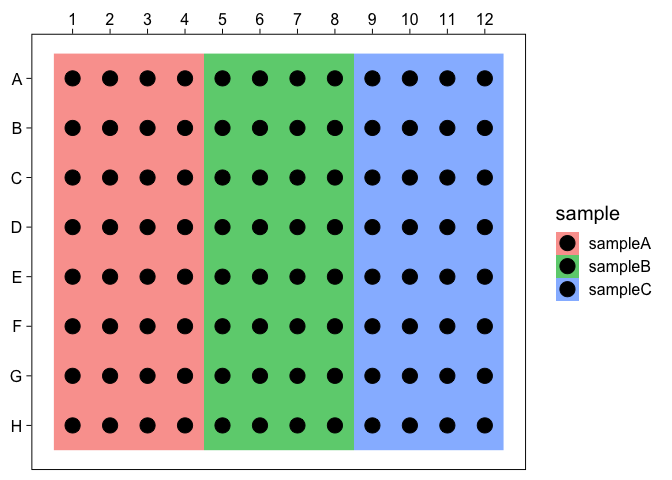
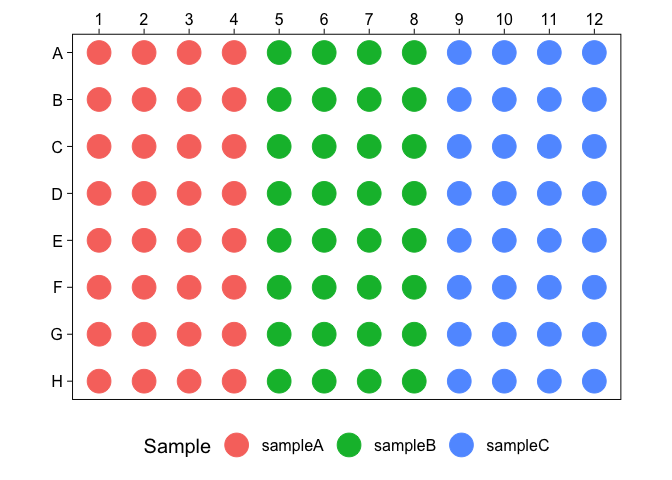
Update README with plate map

diff --git a/README.md b/README.md
@@ -142,50 +142,40 @@ make_plate(
     ## 8    C2    2    C sampleC  250
     ## 9    C3    3    C sampleC  125
 
-<!-- ### `plate_map()` -->
-<!-- Cretes a visual representation of a plate's contents. -->
-<!-- ```{r} -->
-<!-- df1 <- make_plate( -->
-<!--   rows = 1:8,  -->
-<!--   cols = 1:12,  -->
-<!--   sample = rep(c("sampleA", "sampleB", "sampleC"), each = 4), -->
-<!--   conc = 500,  -->
-<!--   dil = 0.5,  -->
-<!--   direction = "vertical" -->
-<!-- ) -->
-<!-- library(ggplot2) -->
-<!-- letter_numbers <- match(unique(df1$rows), LETTERS) -->
-<!-- df1$letter_numbers <- match(df1$rows, LETTERS) -->
-<!-- ggplot(df1, aes( -->
-<!--   x = cols,  -->
-<!--   y = letter_numbers, -->
-<!--   # shape = sample, -->
-<!--   fill = sample -->
-<!-- )) +  -->
-<!--   geom_raster(aes( -->
-<!--     xmin = min(cols), -->
-<!--     xmax = max(cols), -->
-<!--     ymin = min(letter_numbers), -->
-<!--     ymax = max(letter_numbers) -->
-<!--   ), alpha = 0.8) + -->
-<!--   geom_point(size = 8) + -->
-<!--   geom_line(aes( -->
-<!--     y = letter_numbers, -->
-<!--     x = cols, -->
-<!--     group = rows -->
-<!--   ), alpha = 0.5) +  -->
-<!--   geom_line(aes( -->
-<!--     y = letter_numbers,  -->
-<!--     x = cols,  -->
-<!--     group = cols -->
-<!--   ), alpha = 0.5) + -->
-<!--   scale_x_continuous(breaks = 1:12, position = "top") + -->
-<!--   scale_alpha(position = "bottom") + -->
-<!--   scale_y_reverse(breaks = letter_numbers, labels = LETTERS[letter_numbers]) + -->
-<!--   theme_linedraw(base_size = 15) + -->
-<!--   theme(panel.grid = element_blank(),  -->
-<!--         axis.title = element_blank(),  -->
-<!--         aspect.ratio = 8/12) + -->
-<!--   labs(alpha = "") + -->
-<!--   scale_colour_viridis_c(option = "B")  -->
-<!-- ``` -->
+### `plate_map()`
+
+Cretes a visual representation of a plate’s contents.
+
+``` r
+df1 <- make_plate(
+  rows = 1:8,
+  cols = 1:12,
+  sample = rep(c("sampleA", "sampleB", "sampleC"), each = 4),
+  conc = 500,
+  dil = 0.5,
+  direction = "vertical"
+)
+
+library(ggplot2)
+
+ggplot(df1, aes(
+  x = cols,
+  y = match(rows, LETTERS),
+  colour = sample
+)) +
+  geom_point(size = 8) +
+  scale_x_continuous(breaks = 1:12, 
+                     position = "top", 
+                     expand = c(0.05,0.05)) +
+  scale_y_reverse(breaks = 1:12, 
+                  labels = LETTERS[1:12],
+                  expand = c(0.05,0.05)) +
+  theme_linedraw(base_size = 15) +
+  theme(panel.grid = element_blank(),
+        axis.title = element_blank(),
+        aspect.ratio = 8/12, 
+        legend.position = "bottom") + 
+  labs(colour = "Sample")
+```
+
+![](README_files/figure-gfm/unnamed-chunk-5-1.png)<!-- -->
